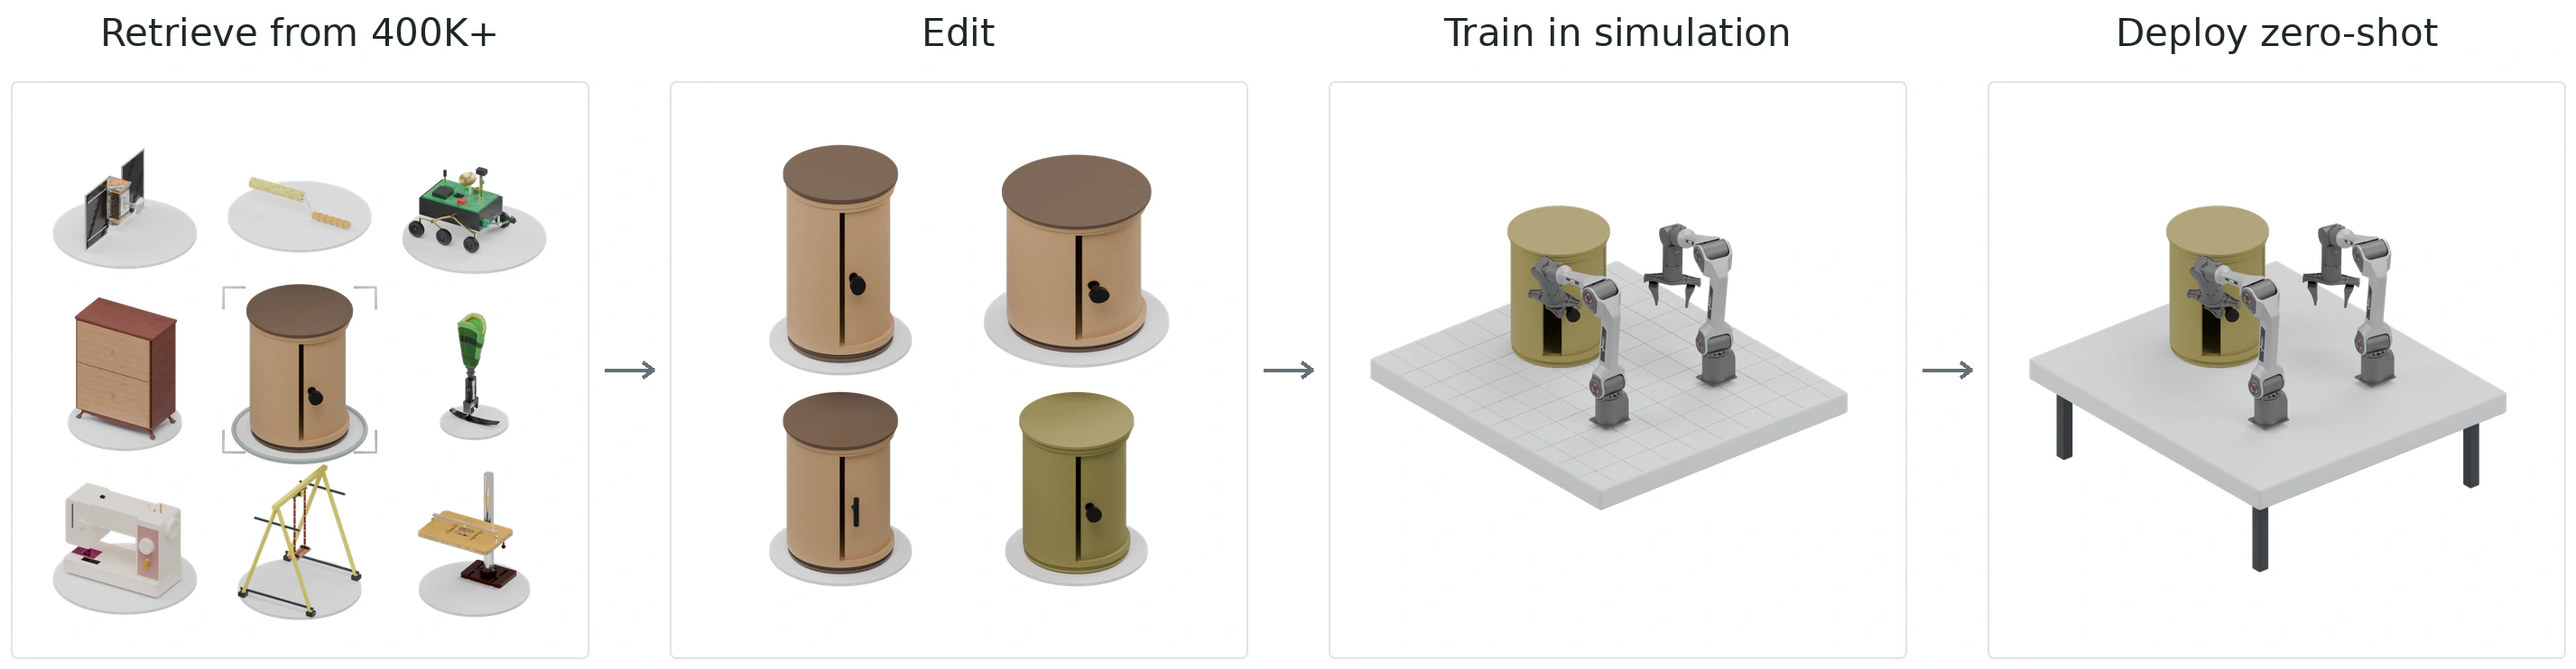
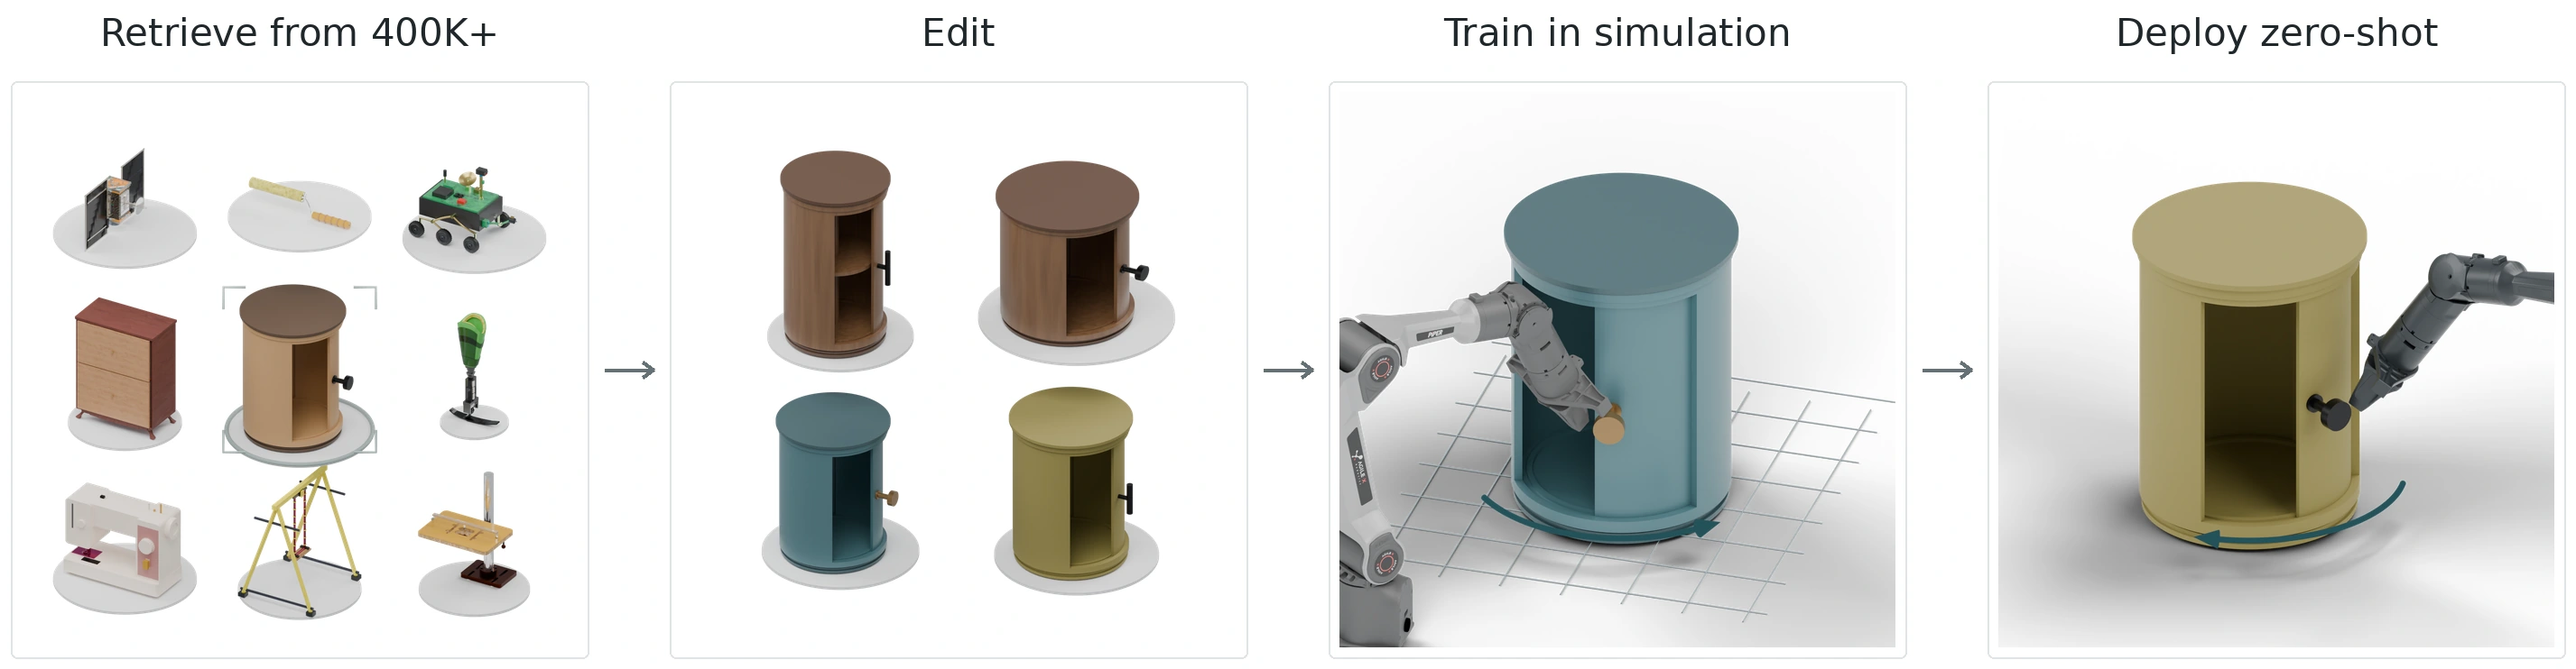
Show half-open cabinet variants and clearer manipulation close-ups

diff --git a/index.html b/index.html
@@ -81,7 +81,7 @@
 <section class="section results-section" id="validation"><div class="wrap"><div class="section-heading"><div><h2>Physical validation</h2></div><p>Kinematic validity, simulator import, and stable rollouts.</p></div><div class="validation-cards"><article><span class="mono">KINEMATIC VALIDITY</span><strong>100.0<span>%</span></strong><p>Full-release assets passing the kinematic validity check.</p></article><article><span class="mono">SIMULATOR IMPORT</span><strong>100.0<span>%</span></strong><p>Core-200 assets imported across the evaluated simulators.</p></article><article><span class="mono">STABLE ROLLOUT</span><strong>99.5<span>%</span></strong><p>One-second stable rollouts on Core-200.</p></article></div><div class="benchmark" id="benchmark"><div class="benchmark-label"><h3>Results</h3><p>Dataset scale, asset quality, and articulation estimation. Select a column to sort.</p></div><div class="benchmark-toolbar"><div class="pill-tabs" role="tablist" aria-label="Result group"><button role="tab" aria-selected="true" data-result="scale">Dataset scale</button><button role="tab" aria-selected="false" data-result="validity">Asset quality</button><button role="tab" aria-selected="false" data-result="transfer">Articulation estimation</button></div><label id="split-control" hidden>Evaluation split <select id="split-select"><option value="ood">Category OOD</option><option value="in">In-domain</option></select></label></div><div class="table-scroll" tabindex="0" role="region" aria-label="Paper results table"><table id="results-table"></table></div><p class="table-note" id="results-note"></p></div><details class="qualitative"><summary>Qualitative results <span>＋</span></summary><img src="./media/articulation.webp" loading="lazy" alt="Qualitative comparison of PM-only, PM plus Articraft, PM plus RFW-A-400K and ground truth"/></details></div></section>
 <section class="section wrap robotics-section" id="sim2real" aria-labelledby="robotics-title">
  <div class="section-heading"><h2 id="robotics-title">Robotic manipulation</h2></div>
- <button class="robotics-flow" data-lightbox="media/robotics-flow.webp" data-lightbox-mobile="media/robotics-flow-mobile.webp" data-caption="Retrieve → optionally edit → train in simulation → deploy zero-shot. Workflow rendered in Blender using native assets; real-world trials are shown below." aria-label="Enlarge the robotic manipulation workflow"><picture><source media="(max-width: 760px)" srcset="./media/robotics-flow-mobile.webp" width="1394" height="1612"/><img src="./media/robotics-flow.webp" width="2854" height="742" loading="lazy" alt="Retrieve one round cabinet from a diverse 400K+ asset pool; edit its height, radius, handle and material; train with the dual-Piper robot in simulation; deploy zero-shot. All four panels are rendered workflow illustrations."/></picture><span aria-hidden="true">Enlarge ↗</span></button>
+ <button class="robotics-flow" data-lightbox="media/robotics-flow.webp?v=ae51d1d7203b" data-lightbox-mobile="media/robotics-flow-mobile.webp?v=34ef02e7ee4a" data-caption="Retrieve → optionally edit → train in simulation → deploy zero-shot. Rendered close-ups illustrate opening and closing; real-world trials are shown below." aria-label="Enlarge the robotic manipulation workflow"><picture><source media="(max-width: 760px)" srcset="./media/robotics-flow-mobile.webp?v=34ef02e7ee4a" width="1394" height="1612"/><img src="./media/robotics-flow.webp?v=ae51d1d7203b" width="2854" height="742" loading="lazy" alt="Retrieve a half-open round cabinet from a diverse 400K+ pool; edit proportions, handles, interior and materials, with two matching wood finishes. Close-ups show a Piper arm opening an edited cabinet in simulation and closing the yellow target in a deployment schematic. All four panels are rendered illustrations."/></picture><span aria-hidden="true">Enlarge ↗</span></button>
  <div id="robotics-picker" class="robotics-picker" role="group" aria-label="Choose a manipulation task"></div>
  <div class="robotics-playback"><h3 id="robotics-selection" aria-live="polite">Cabinet</h3><div><button id="robotics-play" aria-controls="robotics-grid">Play videos</button><button id="robotics-replay" aria-controls="robotics-grid">Replay</button></div></div>
  <p id="task-description" class="robotics-description">Open the cabinet door with the left arm, then close it with the right arm.</p>

diff --git a/scripts/render_robotics_workflow.py b/scripts/render_robotics_workflow.py
@@ -85,7 +85,7 @@ def urdf_material(path, link, visual):
     return m
 
 
-def load_urdf(path, joint_values=None, handle=None):
+def load_urdf(path, joint_values=None, handle=None, interior=None):
     joint_values = joint_values or {}
     xml = ET.parse(path).getroot()
     root = empty(path.parent.name)
@@ -105,6 +105,14 @@ def load_urdf(path, joint_values=None, handle=None):
     meshes = []
     for link in xml.findall('link'):
         visuals = [(v, path) for v in link.findall('visual')]
+        if interior and link.get('name') == 'cabinet_body':
+            ip = SOURCE / interior / 'model.urdf'
+            ix = ET.parse(ip).getroot()
+            shelf = ix.find("link[@name='cabinet_body']/visual[@name='shelf_post']")
+            if shelf is None:
+                raise ValueError('Native shelf unit missing: ' + str(ip))
+            visuals.append((shelf, ip))
+            audit['sources'].append(str(ip))
         if handle and link.get('name') == 'curved_door':
             visuals = [(v, p) for v, p in visuals if not v.get('name', '').startswith('knob_')]
             hp = SOURCE / handle / 'model.urdf'
@@ -239,8 +247,8 @@ EDGE = material('Selected asset', (.28, .36, .35), roughness=.6)
 GOLD = material('Recorded cabinet appearance', (.23, .19, .045), roughness=.85)
 
 
-def cabinet(handle=None, gold=False, q=.14):
-    root, meshes, links = load_urdf(SOURCE / 'crown_molding/model.urdf', {'body_to_door': q}, handle)
+def cabinet(handle=None, gold=False, q=.98, interior=None):
+    root, meshes, links = load_urdf(SOURCE / 'crown_molding/model.urdf', {'body_to_door': q}, handle, interior)
     if gold:
         for ob in meshes:
             if ob['visual_name'] in ('shell', 'door_panel', 'plinth', 'crown_molding', 'base_molding'):
@@ -270,6 +278,7 @@ def tile(root, meshes, sx, sy, right, up, size=.8, fixed_scale=None, selected=Fa
 
 
 def retrieval():
+    audit['presentation_door_angle_rad'] = .98
     right, up, cam = camera((1.5, -2.5, 1.6), scale=3.5)
     ids = [
         'satellite_with_articulated_solar_panels__0000',
@@ -306,33 +315,96 @@ def retrieval():
         line('Selected candidate', [forward + right*x + up*y for x, y in points], EDGE, .008)
 
 
+FINISHES = {
+    'walnut': ((.15, .073, .034), (.065, .029, .014), .38, 0),
+    'blue_gray': ((.065, .155, .175), (.040, .085, .095), .40, .22),
+}
+
+
+def finish_cabinet(meshes, finish):
+    if finish == 'target':
+        body = trim = GOLD
+    else:
+        color, trim_color, roughness, metallic = FINISHES[finish]
+        body = material(finish + ' body', color, metallic, roughness)
+        trim = material(finish + ' trim', trim_color, metallic, roughness)
+        if finish == 'walnut':
+            # A restrained procedural wood finish is part of this illustration's
+            # material edit, not an asserted dataset texture assignment.
+            nodes, links = body.node_tree.nodes, body.node_tree.links
+            tex = nodes.new('ShaderNodeTexNoise');tex.inputs['Scale'].default_value = 3
+            mapping = nodes.new('ShaderNodeVectorMath');mapping.operation = 'MULTIPLY'
+            mapping.inputs[1].default_value = (7, 7, .65)
+            coord = nodes.new('ShaderNodeTexCoord')
+            links.new(coord.outputs['Generated'], mapping.inputs[0])
+            links.new(mapping.outputs[0], tex.inputs['Vector'])
+            ramp = nodes.new('ShaderNodeValToRGB')
+            ramp.color_ramp.elements[0].color = (.09, .039, .016, 1)
+            ramp.color_ramp.elements[1].color = (.20, .105, .049, 1)
+            links.new(tex.outputs['Fac'], ramp.inputs[0])
+            links.new(ramp.outputs[0], nodes.get('Principled BSDF').inputs['Base Color'])
+    hardware = material(finish + ' hardware', (.25, .15, .055), .7, .28) if finish == 'blue_gray' else None
+    for ob in meshes:
+        name = ob.get('visual_name', '')
+        replacement = body if name in ('shell', 'door_panel', 'shelf_post') else trim if name in ('plinth', 'crown_molding', 'base_molding') else hardware if name.startswith(('knob_', 'tbar_')) else None
+        if replacement:
+            ob.data.materials.clear();ob.data.materials.append(replacement)
+
+
 def edits():
+    audit['presentation_door_angle_rad'] = .98
     right, up, _ = camera((1.5, -2.5, 1.6), scale=3.25)
     for i, spec in enumerate([
-        {'edit': 'height', 'scale': (1, 1, 1.28)},
-        {'edit': 'radius', 'scale': (1.3, 1.3, 1)},
-        {'edit': 'handle', 'handle': 't_bar'},
-        {'edit': 'material', 'gold': True},
+        {'finish': 'walnut', 'scale': (.96, .96, 1.22), 'handle': 't_bar', 'interior': 'seed_0000'},
+        {'finish': 'walnut', 'scale': (1.25, 1.25, .93)},
+        {'finish': 'blue_gray', 'scale': (1, 1, 1)},
+        {'finish': 'target', 'scale': (1.08, 1.08, 1.06), 'handle': 't_bar'},
     ]):
-        root, meshes, _ = cabinet(handle=spec.get('handle'), gold=spec.get('gold', False))
-        root.scale = spec.get('scale', (1, 1, 1))
+        root, meshes, _ = cabinet(handle=spec.get('handle'), interior=spec.get('interior'))
+        finish_cabinet(meshes, spec['finish'])
+        root.scale = spec['scale']
         tile(root, meshes, -.69 if i % 2 == 0 else .69, .67 if i < 2 else -.67, right, up, fixed_scale=1.5)
         audit['edits'].append(spec)
 
 
-def pose():
+def pose(frame):
     with POSES.open() as f:
         for row in f:
             p = json.loads(row)
-            if p['frame'] == 700:
+            if p['frame'] == frame:
                 return p
     raise ValueError('Pose frame not found')
 
 
+def motion_arrow(center, opening=True):
+    """A 3D arc around the actual vertical door axis, with a tangent arrowhead."""
+    start, end = ((2.35, 3.95) if opening else (3.95, 2.35))
+    radius = .196
+    points = [Vector((center[0] + radius*math.cos(t), center[1] + radius*math.sin(t), .785))
+              for t in [start + (end-start)*i/64 for i in range(65)]]
+    ink = material('Door motion arrow', (.01, .05, .06), roughness=1)
+    shader = ink.node_tree.nodes.new('ShaderNodeEmission')
+    shader.inputs['Color'].default_value = (.025, .09, .105, 1)
+    ink.node_tree.links.new(shader.outputs[0], ink.node_tree.nodes.get('Material Output').inputs['Surface'])
+    line('Door motion arc', points, ink, .0038)
+    tangent = (points[-1]-points[-2]).normalized()
+    length = .032
+    bpy.ops.mesh.primitive_cone_add(vertices=48, radius1=.012, radius2=0, depth=length, location=points[-1]+tangent*length/2)
+    ob = bpy.context.object
+    ob.name = 'Door motion arrowhead'
+    ob.rotation_euler = tangent.to_track_quat('Z', 'Y').to_euler()
+    ob.data.materials.append(ink)
+
+
 def robot_scene(deploy=False):
-    p = pose()
+    frame = 1800 if deploy else 900
+    p = pose(frame)
+    active_side = 'right' if deploy else 'left'
     audit['pose_source'] = str(POSES)
-    audit['pose_frame'] = 700
+    audit['pose_frame'] = frame
+    audit['visible_arm'] = active_side
+    audit['motion_phase'] = 'closing' if deploy else 'opening'
+    graphite = material('Deployment hardware finish', (.025, .031, .035), .3, .37)
     for side, arm in p['arms'].items():
         joints = dict(zip(['joint' + str(i) for i in range(1, 7)], arm['joint_pos_rad']))
         joints.update(dict(zip(['gripper', 'gripper_joint1', 'gripper_joint2'], arm['gripper_joint_pos_m'])))
@@ -341,41 +413,44 @@ def robot_scene(deploy=False):
         root.rotation_mode = 'QUATERNION'
         root.rotation_quaternion = Quaternion(arm['root_quat_wxyz'])
         bpy.context.view_layer.update()
-        # The recording stores the measured rigid-body poses of all fingers.
-        # Record FK consistency and use those measured poses for the gripper visuals.
         checks = {}
         for name, raw in arm['finger_poses'].items():
             checks[name] = (links[name].matrix_world.translation - Vector(raw[:3])).length
             links[name].matrix_world = Matrix.Translation(Vector(raw[:3])) @ Quaternion(raw[3:]).to_matrix().to_4x4()
             bpy.context.view_layer.update()
         audit['robot_pose_checks'][side] = checks
-    root, meshes, _ = cabinet(gold=True, q=p['joints']['round_cabinet_crown_molding']['body_to_door'])
+        for ob in meshes:
+            # Only the working arm is needed in the close-up. The second arm's
+            # recorded pose is still audited, but its idle gripper is hidden.
+            ob.hide_render = side != active_side or (deploy and ob.get('link_name') in ('base_link', 'link1', 'link2'))
+            if deploy:
+                ob.data.materials.clear();ob.data.materials.append(graphite)
+    root, meshes, _ = cabinet(q=p['joints']['round_cabinet_crown_molding']['body_to_door'])
+    finish_cabinet(meshes, 'target' if deploy else 'blue_gray')
     raw = p['mechanism_roots']['round_cabinet_crown_molding']
     root.location, root.scale = raw[:3], (.66,) * 3
     root.rotation_mode = 'QUATERNION'
     root.rotation_quaternion = Quaternion(raw[3:])
-    tabletop = material('Neutral workbench', (.73, .75, .77), roughness=.8)
-    cube('Workbench', (.12, .035, .705), (1.04, .93, .07), tabletop, .009)
-    # The training schematic uses a quiet spatial grid. Deployment keeps the
-    # same asset/robot composition and a plain workbench: these are illustrations.
+    # Contact shadows ground the close-up, without a large table or legs that
+    # compete with the action. No source geometry or recorded pose is altered.
+    bpy.ops.mesh.primitive_plane_add(size=200, location=(0, 0, .737))
+    floor = bpy.context.object;floor.name = 'Contact shadow plane'
+    floor.is_shadow_catcher = True;floor.data.materials.append(WHITE)
     if not deploy:
-        grid = material('Simulation grid', (.43, .48, .51), roughness=.75)
-        for i in range(-4, 6):
-            x = i * .1
-            if -.39 < x < .63:
-                line('Grid X', [(x, -.425, .741), (x, .495, .741)], grid, .0007)
-        for i in range(-4, 5):
-            y = i * .1 + .035
-            line('Grid Y', [(-.39, y, .741), (.63, y, .741)], grid, .0007)
-    else:
-        frame_mat = material('Workbench frame', (.055, .06, .065), metallic=.45)
-        for x in (-.32, .56):
-            for y in (-.36, .43):
-                cube('Table support', (x, y, .56), (.035, .035, .27), frame_mat, .004)
-    # Camera looks toward the cabinet opening (source +X, rotated to world -X).
-    camera((-2.4, 2.0, 1.7), target=(.10, .02, .76), scale=1.6)
+        grid = material('Simulation grid', (.26, .33, .36), roughness=.9)
+        for i in range(-3, 5):
+            x = .347+i*.08
+            line('Grid X', [(x, -.23, .738), (x, .30, .738)], grid, .00065)
+        for i in range(-3, 4):
+            y = .034+i*.08
+            line('Grid Y', [(.08, y, .738), (.64, y, .738)], grid, .00065)
+    motion_arrow(raw[:3], opening=not deploy)
+    camera((-3.0, 2.0, 1.8) if deploy else (-3.0, -.9, 1.8), target=(.30, .025, .945), scale=.70)
     audit['illustration_only'] = True
+    audit['cabinet_finish'] = 'target' if deploy else 'blue_gray'
+    audit['robot_finish'] = 'graphite presentation finish' if deploy else 'original Collada materials'
     audit['target_material_source'] = '/opt/isaacsim/isaac_route/assets/articulated/generated/round_cabinet_crown_molding_appearance.usda'
+
 
 
 {'retrieve': retrieval, 'edit': edits, 'train': lambda: robot_scene(False), 'deploy': lambda: robot_scene(True)}[args.panel]()

diff --git a/scripts/compose_robotics_workflow.py b/scripts/compose_robotics_workflow.py
@@ -2,6 +2,8 @@
 Run after render_robotics_workflow.py has produced all four /tmp panels.
 """
 import json
+import hashlib
+import re
 from pathlib import Path
 from PIL import Image, ImageDraw, ImageFont
 
@@ -70,6 +72,14 @@ def compose():
     arrow(ImageDraw.Draw(mobile), [(x2, FRAME_Y+SIZE+14), (x2, 812), (x1, 812), (x1, second_y-102)])
     mobile.save(MEDIA / 'robotics-flow-mobile.webp', quality=93, method=6)
     mobile.save(TMP / 'robotics-flow-mobile.png')
+    # GitHub Pages can cache unchanged asset URLs between quick revisions.
+    # Content versions keep the inline image and its lightbox in sync.
+    html_path = ROOT / 'index.html'
+    html = html_path.read_text()
+    for name in ('robotics-flow.webp', 'robotics-flow-mobile.webp'):
+        version = hashlib.sha256((MEDIA / name).read_bytes()).hexdigest()[:12]
+        html = re.sub(r'(media/' + re.escape(name) + r')(?:\?v=[a-zA-Z0-9-]+)?', lambda m: m[1] + '?v=' + version, html)
+    html_path.write_text(html)
     audits = [json.loads((TMP / (p+'.json')).read_text()) for p in PANELS]
     checks = [v for a in audits for arm in a['robot_pose_checks'].values() for v in arm.values()]
     if not checks or max(checks) > 1e-5:

diff --git a/output/robotics-workflow/README.md b/output/robotics-workflow/README.md
@@ -2,7 +2,7 @@
 
 The website uses four Blender-rendered panels, short headings and connecting
 arrows. There are no AI-generated objects or extracted video frames in this
-version. Desktop and mobile WebP assets are about 90 KB each.
+version. Desktop and mobile WebP assets are composed from the same four panels.
 
 ## Panel content
 
@@ -11,17 +11,31 @@ version. Desktop and mobile WebP assets are about 90 KB each.
    drawer cabinet, prosthetic limb, sewing machine, swing and drill-press table.
    The pool is a representative illustration of retrieval, not a retrieval ranking
    or a claim that these nine assets constitute the dataset.
-2. **Edit**: four illustrative variants of that same `crown_molding` cabinet:
-   height scaled by 1.28; radius scaled by 1.30; native T-bar handle; target material.
-   The T-bar dimensions come from `t_bar/model.py` and its radial placement is
-   translated by 25 mm to match the selected cabinet. The diagrams are controlled
-   presentation edits; they are not new evaluated training samples or dataset records.
-3. **Train in simulation**: the round cabinet and official dual-Piper model use
-   frame 700 of the recorded simulation state. The cabinet scale is 0.66, exactly
-   as in `isaac_route/common/sim_asset.py`. A quiet tabletop grid denotes simulation.
-4. **Deploy zero-shot**: a matched Blender schematic with a plain workbench.
-   This is not a real experiment photograph or a reconstructed real trial. The
-   actual real-world recordings remain immediately below the workflow.
+2. **Edit**: four mixed variants of the same `crown_molding` cabinet. Two
+   share the same walnut material; the other two use blue-gray paint and the
+   yellow target finish. Proportions and handles vary together with materials.
+   The tall walnut variant includes the original shelf/post mesh from
+   `seed_0000`; the wide walnut cabinet retains an empty interior. Both the
+   retrieved cabinet and all four edits are shown at 0.98 radians (about 56°),
+   exposing the interior while remaining inside the original 102° door travel.
+   The native T-bar dimensions are translated radially by 25 mm to match this
+   cabinet. These are presentation edits, not new evaluated training samples.
+3. **Train in simulation**: a close-up of the left Piper arm pushing the blue-gray
+   cabinet open. Pose and door state come from simulation frame 900. The cabinet
+   scale is 0.66, exactly as in `isaac_route/common/sim_asset.py`. A light spatial
+   grid and an arc around the real door axis show the simulation context and motion.
+4. **Deploy zero-shot**: a close-up of the right Piper arm pushing the yellow
+   target cabinet closed, with a reversed motion arrow and a graphite hardware
+   finish. It uses simulation frame 1800 as the pose for a deployment illustration;
+   it is not a recovered real-world robot pose, photograph, or real trial.
+   The actual real-world recordings remain immediately below the workflow.
+
+The two close-ups illustrate two phases of the same open/close task, not different
+training and deployment task definitions. Only the working arm is visible; its
+native pose and distal geometry are preserved and the idle arm is hidden. The
+deployment view also hides the base and two proximal links where they otherwise
+intrude at the bottom-right edge. The close framing gives the object and gripper
+most of the image area.
 
 Editing is optional in the paper. The four-panel flow illustrates the edited
 branch; it does not redefine all three experimental training conditions.
@@ -31,17 +45,24 @@ branch; it does not redefine all three experimental training conditions.
 - Cabinet: `/opt/isaacsim/sim_asset/round_cabinet/crown_molding/model.urdf`.
 - Handle: `/opt/isaacsim/sim_asset/round_cabinet/t_bar/model.py` and `model.urdf`.
 - Robot: `/opt/isaacsim/piper_official_isaac_asset_20260827/official_source/piper_with_gripper.urdf`;
-  original Collada visuals and materials are imported intact.
+  original Collada geometry is imported intact; the simulation panel retains the
+  source robot materials and the deployment schematic uses a graphite finish.
 - Robot pose: `/opt/isaacsim/end/real_sim_fixed_camera_20261014/round_cabinet/round_cabinet_fixed_camera.jsonl`.
 - Dataset pool: existing native exports under `public/models/dataset/`, with their
   source provenance in `public/data/dataset.json`.
-- Cabinet base colors: original URDF material palette. Adjacent appearance manifests
+- Retrieved cabinet base colors: original URDF material palette. Adjacent appearance manifests
   contain incomplete texture references; these are not replaced with invented textures.
 - Target cabinet material: the runtime USD appearance layer, diffuse `(0.23, 0.19, 0.045)`
-  and roughness 0.85. The same material appears in the edit and robot panels.
+  and roughness 0.85. This appears in one edit and the deployment panel. The training panel uses the
+  same blue-gray finish as another edit.
+
+The two walnut variants share one procedural wood shader definition; this is an
+illustrative material edit, not a claimed source dataset texture. The shelf/post
+visual is imported from the native `seed_0000/model.urdf`, without changing its
+mesh. It attaches to the cabinet body; the other variants retain the original empty cavity.
 
 Sources remain read-only. Lighting, camera placement, selection brackets, display
-plinths and workbench geometry are presentation elements. Lettering, borders and
+plinths, simulation grid and motion arrows are presentation elements. Lettering, borders and
 arrows outside the panels are composed with Pillow, using a sans-serif font.
 
 ## Reproduce
@@ -59,8 +80,10 @@ Final renders use Cycles OptiX, 128 samples and denoising, at 1280 × 1280 per p
 Temporary PNGs, Blender scenes and logs live in `/tmp/rfw-workflow`. Composition
 writes `public/media/robotics-flow.webp` (2854 × 742) and
 `public/media/robotics-flow-mobile.webp` (1394 × 1612). The mobile return arrow
-preserves reading order: retrieve, edit, train, deploy.
+preserves reading order: retrieve, edit, train, deploy. Composition also updates
+content hashes in the image/lightbox URLs so a new render does not reuse a cached
+previous revision.
 
 `render-audit.json` records sources, edits, devices and native URDF forward-kinematics
-agreement with the recorded robot finger poses (maximum position error below 0.5 µm).
+agreement with the recorded robot finger poses (maximum position error is recorded in the audit).
 This verifies pose import, not physics validity of the illustrative edits.
